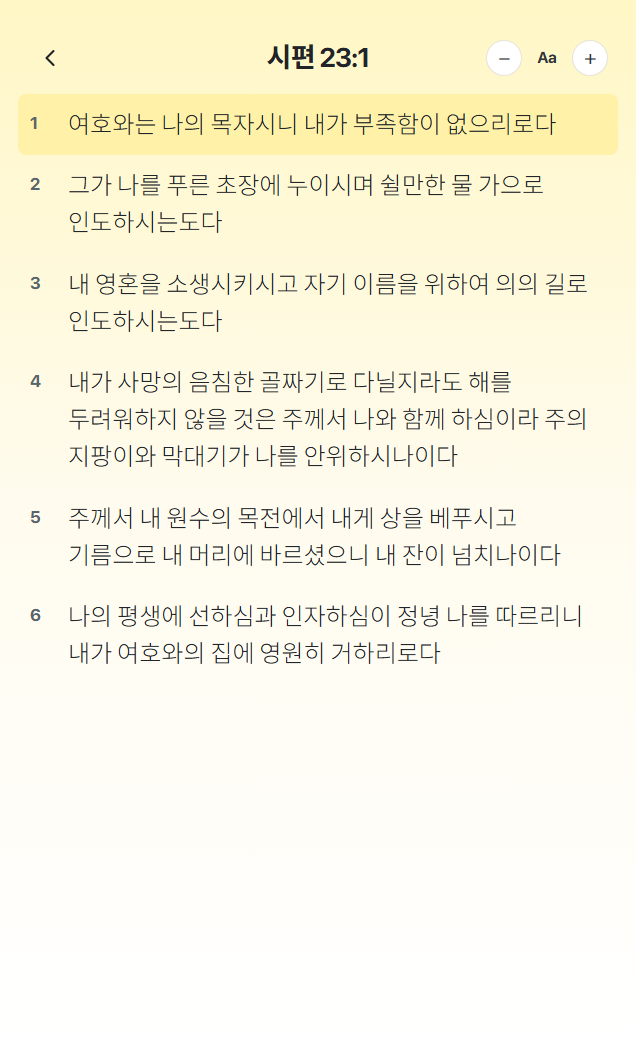
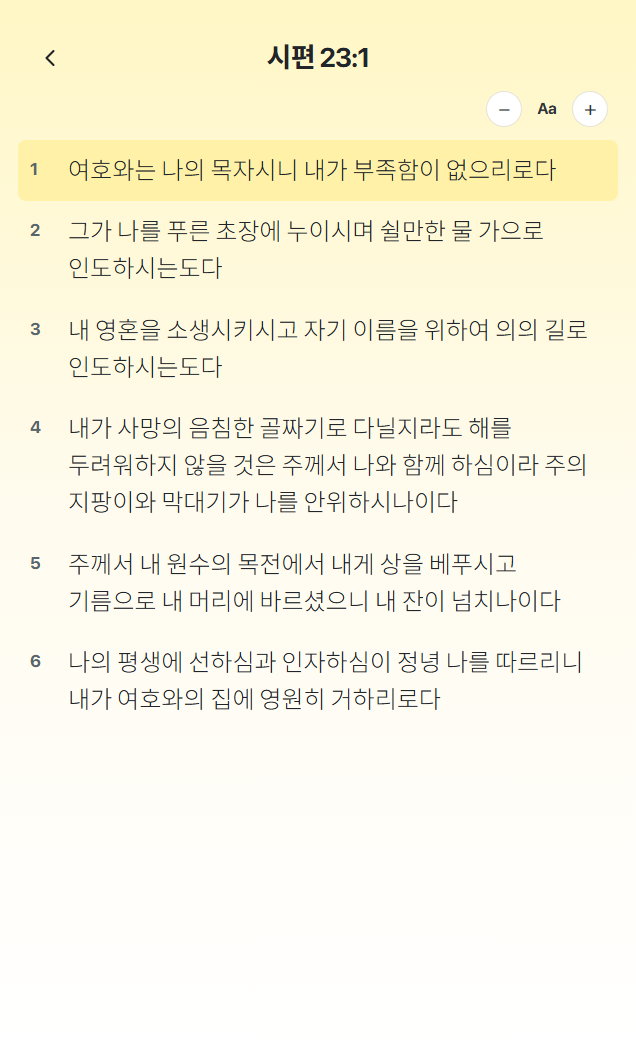
Separate chapter title and font controls

diff --git a/toss-miniapp/src/style.css b/toss-miniapp/src/style.css
@@ -17,13 +17,14 @@ main { min-height: 100dvh; padding: 34px 28px calc(105px + var(--safe-bottom)); 
 .today-layout .font-controls { margin: 26px auto 0; }
 .page-chapter { background: linear-gradient(180deg, #fff7c5 0%, #fffbee 48%, #fff 100%); }
 .page-heading { margin-bottom: 12px; }
-.detail-heading { position: relative; display: flex; align-items: center; justify-content: center; min-height: 48px; padding: 0 58px; }
-.detail-heading > div { min-width: 0; text-align: center; }
-.detail-heading h1 { margin: 0; white-space: nowrap; }
-.chapter-heading .font-controls { position: absolute; right: 0; top: 50%; transform: translateY(-50%); margin: 0; gap: 4px; }
+.detail-heading { min-height: 48px; padding: 0; }
+.detail-title-row { display: grid; grid-template-columns: 44px minmax(0, 1fr) 44px; align-items: center; min-height: 48px; }
+.detail-title-row h1 { min-width: 0; margin: 0; text-align: center; white-space: nowrap; }
+.header-spacer { display: block; width: 44px; height: 44px; }
+.chapter-heading > .font-controls { width: max-content; margin: 8px 0 0 auto; gap: 4px; }
 .chapter-heading .round-control { width: 36px; height: 36px; box-shadow: none; border: 1px solid rgba(130,118,64,.2); font-size: 21px; }
 .chapter-heading .font-reset { min-width: 42px; padding: 7px 8px; font-size: 16px; }
-.back-button { position: absolute; left: 0; top: 50%; transform: translateY(-50%); display: grid; place-items: center; width: 44px; height: 44px; padding: 0; border: 0; border-radius: 12px; background: transparent; color: #202124; }
+.back-button { display: grid; place-items: center; width: 44px; height: 44px; padding: 0; border: 0; border-radius: 12px; background: transparent; color: #202124; }
 .back-button:active { background: rgba(32,33,36,.07); }
 .back-button svg { width: 28px; height: 28px; }
 .eyebrow { color: #667780; font-size: 13px; font-weight: 700; margin: 0 0 8px; }
@@ -99,5 +100,5 @@ blockquote { margin: 0; line-height: 1.75; letter-spacing: -.35px; overflow-wrap
 .manual-share textarea { width: 100%; min-height: 170px; padding: 12px; border: 1px solid #b8c0c5; border-radius: 8px; background: #fff; color: #202124; line-height: 1.65; }
 .manual-share button { margin: 12px 8px 0 0; }
 .license { white-space: pre-wrap; overflow-wrap: anywhere; font-size: 12px; line-height: 1.7; color: #52616a; }
-@media (max-width: 359px) { main { padding-left: 18px; padding-right: 18px; } .page-today main { padding-left: 18px; padding-right: 18px; } .verse-card { padding: 24px 20px 18px; } .verse-card-heading h1 { font-size: 24px; } .chapter-heading { padding-bottom: 46px; } .chapter-heading .font-controls { top: auto; right: 0; bottom: 0; transform: none; } }
+@media (max-width: 359px) { main { padding-left: 18px; padding-right: 18px; } .page-today main { padding-left: 18px; padding-right: 18px; } .verse-card { padding: 24px 20px 18px; } .verse-card-heading h1 { font-size: 24px; } }
 @media (orientation: landscape) { .today-stack { transform: none; } .today-layout .verse-card { max-height: calc(100dvh - 190px); } .today-layout .font-controls { margin-top: 16px; } }

diff --git a/toss-miniapp/src/App.tsx b/toss-miniapp/src/App.tsx
@@ -122,7 +122,9 @@ export function App() {
 
   return <div className={`app page-${route.page}`}>
     <main>
-      {route.page !== 'today' && <header className={`page-heading ${isDetailPage ? 'detail-heading' : ''} ${route.page === 'chapter' ? 'chapter-heading' : ''}`}>{isDetailPage && <button className="back-button" aria-label="이전 화면으로 돌아가기" onClick={goBack}><AppIcon name="back" /></button>}<div><h1 ref={heading} tabIndex={-1}>{title}</h1></div>{route.page === 'chapter' && fontControls}</header>}
+      {route.page !== 'today' && (isDetailPage
+        ? <header className={`page-heading detail-heading ${route.page === 'chapter' ? 'chapter-heading' : ''}`}><div className="detail-title-row"><button className="back-button" aria-label="이전 화면으로 돌아가기" onClick={goBack}><AppIcon name="back" /></button><h1 ref={heading} tabIndex={-1}>{title}</h1><span className="header-spacer" aria-hidden="true" /></div>{route.page === 'chapter' && fontControls}</header>
+        : <header className="page-heading"><h1 ref={heading} tabIndex={-1}>{title}</h1></header>)}
       <p className="status" role="status" aria-live="polite">{notice}</p>
       {!bible && !error && <p role="status" className="empty">말씀을 준비하고 있어요…</p>}
       {error && <div className="empty" role="alert"><p>{error}</p><Button onClick={() => { setError(''); setAttempt(a => a + 1); }}>다시 불러오기</Button></div>}
